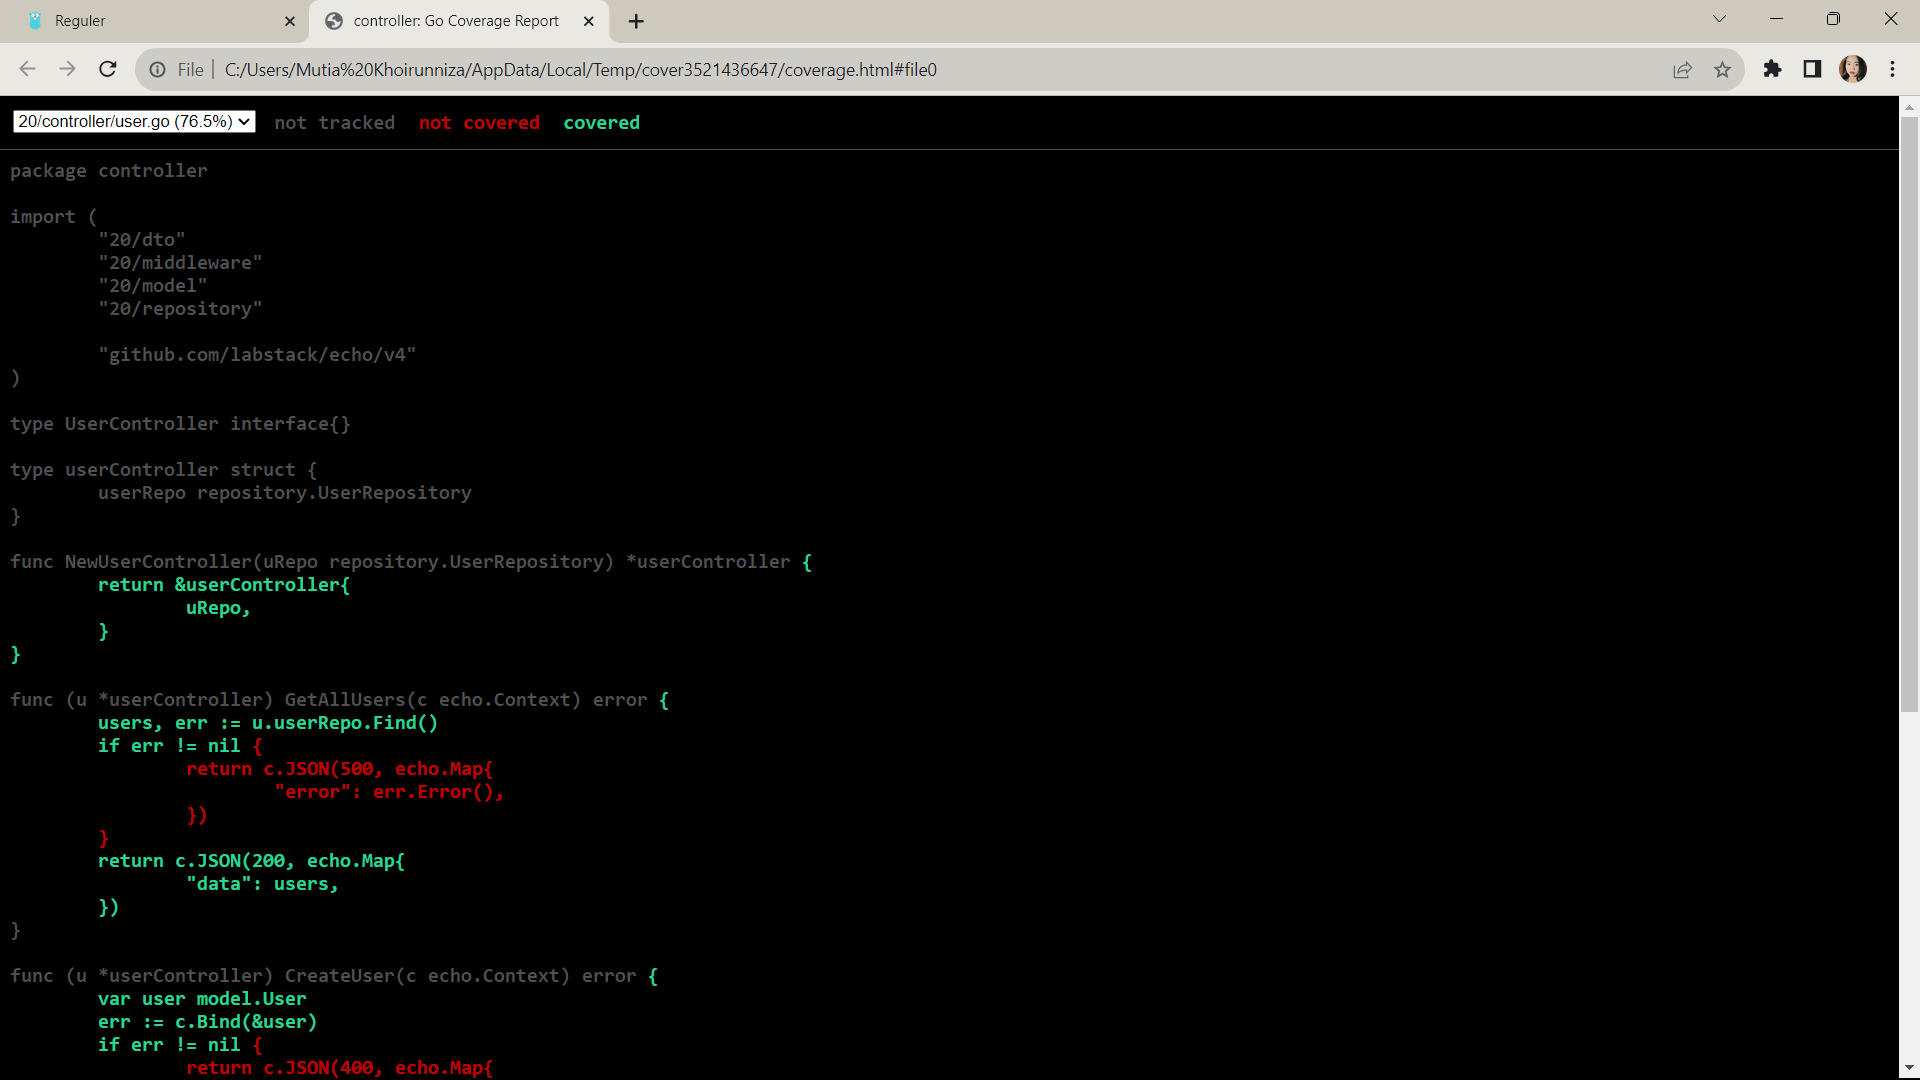
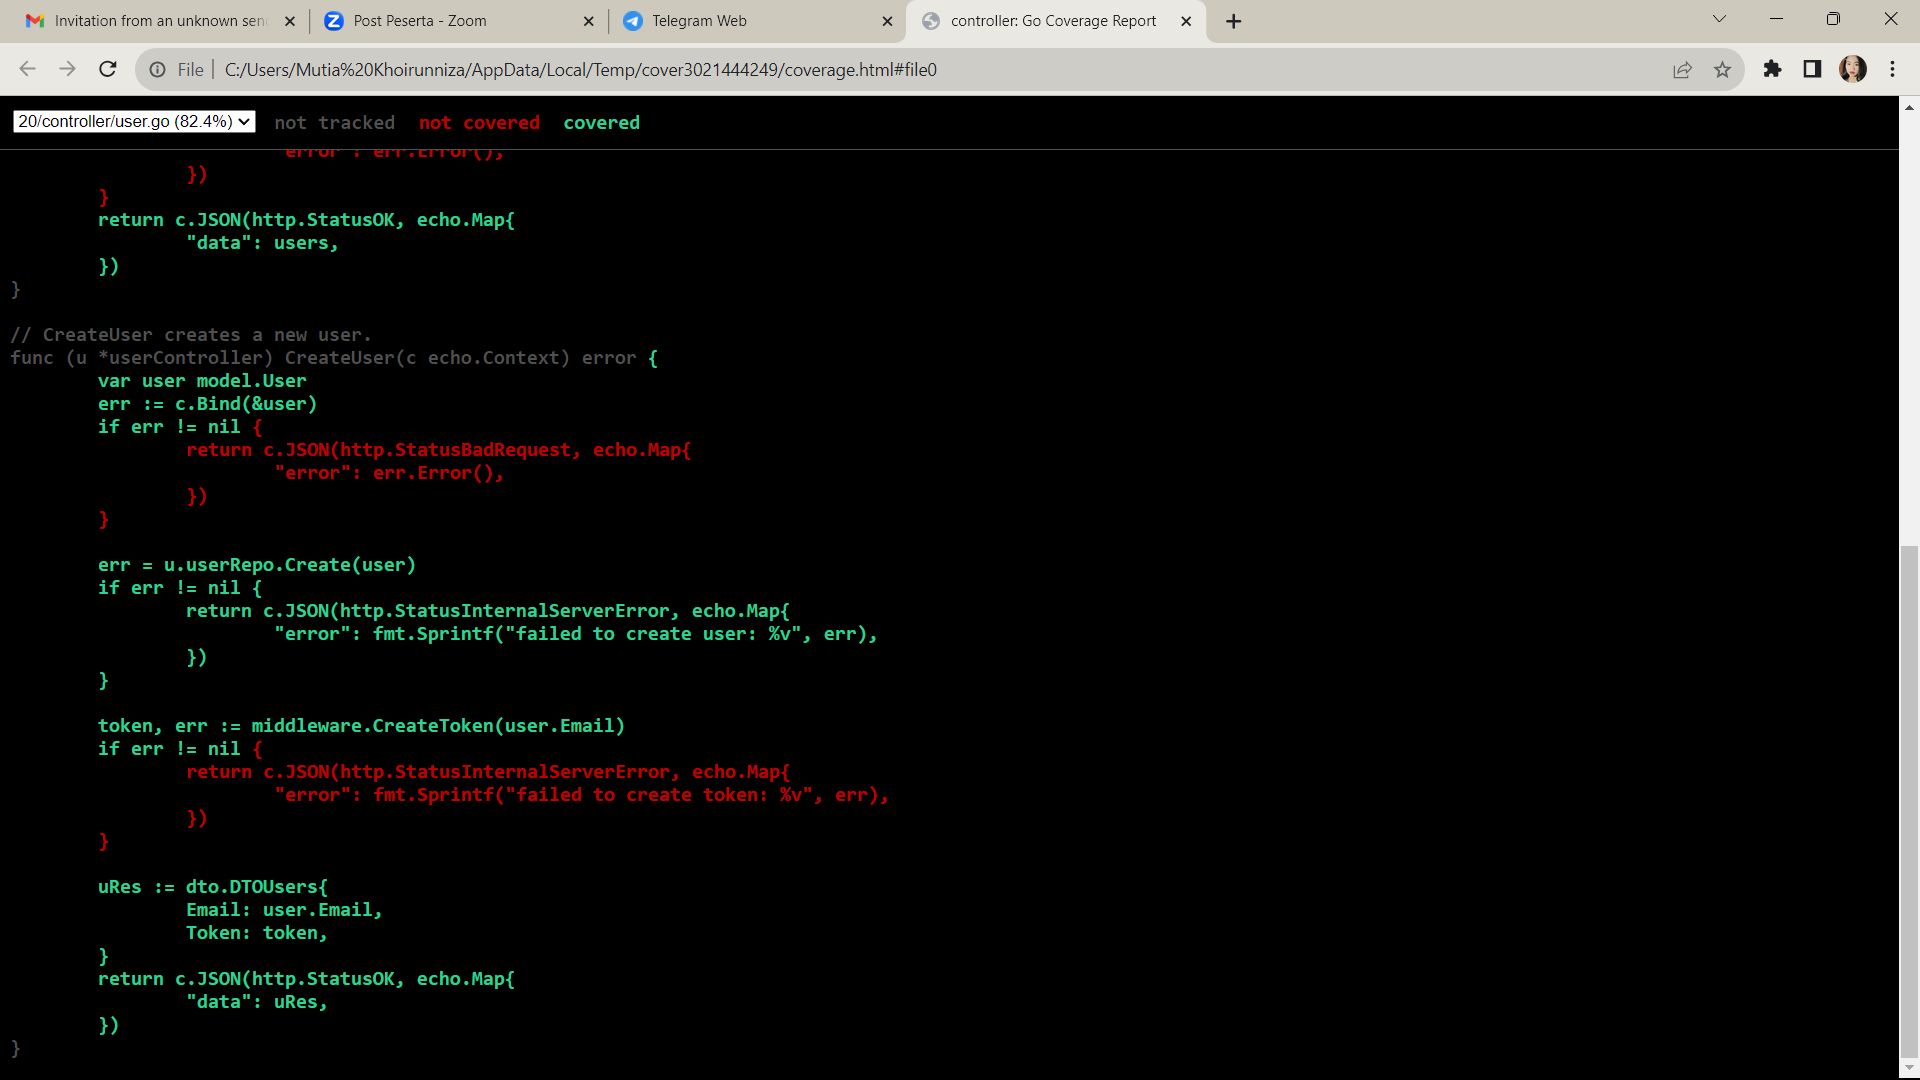
update

diff --git a/20_Clean-Architecture/praktikum/controller/user_test.go b/20_Clean-Architecture/praktikum/controller/user_test.go
@@ -1,155 +1,102 @@
 package controller_test
 
 import (
-	"20/controller"
-	"20/model"
-	"20/repository"
-	"net/http"
-	"net/http/httptest"
-	"strings"
-	"testing"
+    "20/controller"
+    "20/model"
+    "20/repository"
+    "errors"
+    "net/http"
+    "net/http/httptest"
+    "strings"
+    "testing"
 
-	"github.com/labstack/echo/v4"
-	"github.com/stretchr/testify/assert"
-	"github.com/stretchr/testify/mock"
-
+    "github.com/labstack/echo/v4"
+    "github.com/stretchr/testify/assert"
 )
 
-func TestGetAllUsers(t *testing.T) {
-	e := echo.New()
-	mockUserRepo := &repository.MockUserRepository{}
-	uController := controller.NewUserController(mockUserRepo)
+func TestGetAllUsersSuccess(t *testing.T) {
+    // Inisialisasi Echo
+    e := echo.New()
 
-	req := httptest.NewRequest(http.MethodGet, "/users", nil)
-	rec := httptest.NewRecorder()
-	c := e.NewContext(req, rec)
+    // Membuat mock repository dan controller
+    mockUserRepo := &repository.MockUserRepository{}
+    uController := controller.NewUserController(mockUserRepo)
 
-	mockUserRepo.On("Find").Return([]model.User{}, nil).Once()
+    // Membuat permintaan HTTP GET palsu
+    req := httptest.NewRequest(http.MethodGet, "/users", nil)
+    rec := httptest.NewRecorder()
+    c := e.NewContext(req, rec)
 
-	if assert.NoError(t, uController.GetAllUsers(c)) {
-		assert.Equal(t, http.StatusOK, rec.Code)
-	}
+    // Mengatur mock repository untuk mengembalikan beberapa data pengguna
+    users := []model.User{}
+    mockUserRepo.On("Find").Return(users, nil)
 
-	mockUserRepo.AssertExpectations(t)
+    // Menjalankan fungsi pengujian
+    err := uController.GetAllUsers(c)
+    assert.NoError(t, err)
+    assert.Equal(t, http.StatusOK, rec.Code)
+
+    mockUserRepo.AssertExpectations(t)
 }
 
-func TestCreateUser(t *testing.T) {
-	reqbody := `{
-		"email": "mutiakhoirunniza@gmail.com",
-		"password":"2002"}`
+func TestCreateUserValidJSON(t *testing.T) {
+    // JSON body yang valid
+    reqbody := `{ "email": "Mutia123@gmail.com", "password": "mutia1234fyu" }`
 
-	mockUserRepo := &repository.MockUserRepository{}
-	uController := controller.NewUserController(mockUserRepo)
-	mockUserRepo.On("Create", mock.AnythingOfType("model.User")).Return(nil)
+    // Membuat mock repository dan controller
+    mockUserRepo := &repository.MockUserRepository{}
+    uController := controller.NewUserController(mockUserRepo)
 
-	req := httptest.NewRequest(http.MethodPost, "/users", strings.NewReader(reqbody))
-	req.Header.Set(echo.HeaderContentType, echo.MIMEApplicationJSON)
-	rec := httptest.NewRecorder()
-	e := echo.New()
-	c := e.NewContext(req, rec)
+    // Membuat pengguna yang diharapkan untuk dibuat
+    expectedUser := model.User{
+        Email:    "Mutia123@gmail.com",
+        Password: "mutia1234fyu",
+    }
 
-	err := uController.CreateUser(c)
+    mockUserRepo.On("Create", expectedUser).Return(nil)
 
-	assert.NoError(t, err)
-	assert.Equal(t, http.StatusOK, rec.Code)
-	mockUserRepo.AssertExpectations(t)
+    // Membuat permintaan HTTP POST palsu dengan JSON body
+    req := httptest.NewRequest(http.MethodPost, "/users", strings.NewReader(reqbody))
+    req.Header.Set(echo.HeaderContentType, echo.MIMEApplicationJSON)
+    rec := httptest.NewRecorder()
+    e := echo.New()
+    c := e.NewContext(req, rec)
+
+    // Menjalankan fungsi pengujian
+    err := uController.CreateUser(c)
+    assert.NoError(t, err)
+    assert.Equal(t, http.StatusOK, rec.Code)
+    
+    mockUserRepo.AssertExpectations(t)
 }
 
-func TestCreateUserfailed(t *testing.T) {
+func TestCreateUserOtherErrors(t *testing.T) {
+    // JSON body yang valid
+    reqbody := `{ "email": "Mutia123@gmail.com"}`
 
-	mockUserRepo := &repository.MockUserRepository{}
-	uController := controller.NewUserController(mockUserRepo)
+    // Membuat mock repository dan controller
+    mockUserRepo := &repository.MockUserRepository{}
+    uController := controller.NewUserController(mockUserRepo)
 
-	mockUserRepo.On("Create", mock.AnythingOfType("model.User")).Return(nil)
+    // Membuat pengguna yang diharapkan untuk dibuat
+    expectedUser := model.User{
+        Email:    "Mutia123@gmail.com",
+    }
 
-	req := httptest.NewRequest(http.MethodPost, "/users", nil)
-	req.Header.Set(echo.HeaderContentType, echo.MIMEApplicationJSON)
-	rec := httptest.NewRecorder()
-	e := echo.New()
-	c := e.NewContext(req, rec)
+    // Mengatur ekspektasi panggilan Create pada mock repository untuk mengembalikan kesalahan
+    mockUserRepo.On("Create", expectedUser).Return(errors.New("some other error"))
 
-	err := uController.CreateUser(c)
+    // Membuat permintaan HTTP POST palsu dengan JSON body
+    req := httptest.NewRequest(http.MethodPost, "/users", strings.NewReader(reqbody))
+    req.Header.Set(echo.HeaderContentType, echo.MIMEApplicationJSON)
+    rec := httptest.NewRecorder()
+    e := echo.New()
+    c := e.NewContext(req, rec)
 
-	assert.NoError(t, err)
+    // Menjalankan fungsi pengujian
+    if assert.NoError(t, uController.CreateUser(c)){
+        assert.Equal(t, http.StatusInternalServerError, rec.Code)
+    }
 
-	mockUserRepo.AssertExpectations(t)
+    mockUserRepo.AssertExpectations(t)
 }
-
-
-// // someValidationError adalah tipe error kustom
-// type someValidationError struct {
-//     // Anda bisa menambahkan field tambahan jika diperlukan
-//     Message string
-// }
-
-// // Implementasi method Error() untuk tipe someValidationError.
-// func (e *someValidationError) Error() string {
-//     return e.Message
-// }
-
-// // someUnauthorizedError adalah tipe error kustom
-// type someUnauthorizedError struct {
-//     // Anda bisa menambahkan field tambahan jika diperlukan
-//     Message string
-// }
-
-// // Implementasi method Error() untuk tipe someUnauthorizedError.
-// func (e *someUnauthorizedError) Error() string {
-//     return e.Message
-// }
-
-
-
-
-
-// func TestCreateUser_WithValidationError(t *testing.T) {
-// 	reqbody := `{
-//         "email": "invalid-email",
-//         "password":"2002"
-//     }`
-
-// 	mockUserRepo := &repository.MockUserRepository{}
-// 	uController := controller.NewUserController(mockUserRepo)
-
-// 	mockUserRepo.On("Create", mock.AnythingOfType("model.User")).Return(e.Message)
-
-// 	req := httptest.NewRequest(http.MethodPost, "/users", strings.NewReader(reqbody))
-// 	req.Header.Set(echo.HeaderContentType, echo.MIMEApplicationJSON)
-// 	rec := httptest.NewRecorder()
-// 	e := echo.New()
-// 	c := e.NewContext(req, rec)
-
-// 	err := uController.CreateUser(c)
-
-// 	assert.Error(t, err)
-// 	assert.Equal(t, http.StatusBadRequest, rec.Code)
-
-// 	mockUserRepo.AssertExpectations(t)
-// }
-
-// func TestCreateUser_WithUnauthorizedError(t *testing.T) {
-// 	reqbody := `{
-//         "email": "mutiakhoirunniza@gmail.com",
-//         "password":"2002"
-//     }`
-
-// 	mockUserRepo := &repository.MockUserRepository{}
-// 	uController := controller.NewUserController(mockUserRepo)
-
-// 	// Set up the mockUserRepo to return an unauthorized error.
-
-// 	mockUserRepo.On("Create", mock.AnythingOfType("model.User")).Return(someUnauthorizedError)
-
-// 	req := httptest.NewRequest(http.MethodPost, "/users", strings.NewReader(reqbody))
-// 	req.Header.Set(echo.HeaderContentType, echo.MIMEApplicationJSON)
-// 	rec := httptest.NewRecorder()
-// 	e := echo.New()
-// 	c := e.NewContext(req, rec)
-
-// 	err := uController.CreateUser(c)
-
-// 	assert.Error(t, err)
-// 	assert.Equal(t, http.StatusUnauthorized, rec.Code)
-
-// 	mockUserRepo.AssertExpectations(t)
-// }

diff --git a/20_Clean-Architecture/praktikum/controller/user.go b/20_Clean-Architecture/praktikum/controller/user.go
@@ -5,52 +5,63 @@ import (
 	"20/middleware"
 	"20/model"
 	"20/repository"
+	"fmt"
+	"net/http"
 
 	"github.com/labstack/echo/v4"
 )
 
-type UserController interface{}
+// UserController defines the user controller interface.
+type UserController interface {
+	GetAllUsers(c echo.Context) error
+	CreateUser(c echo.Context) error
+}
 
 type userController struct {
 	userRepo repository.UserRepository
 }
 
-func NewUserController(uRepo repository.UserRepository) *userController {
+// NewUserController creates a new UserController instance.
+func NewUserController(uRepo repository.UserRepository) UserController {
 	return &userController{
-		uRepo,
+		userRepo: uRepo,
 	}
 }
 
+// GetAllUsers retrieves all users.
 func (u *userController) GetAllUsers(c echo.Context) error {
 	users, err := u.userRepo.Find()
 	if err != nil {
-		return c.JSON(500, echo.Map{
+		return c.JSON(http.StatusInternalServerError, echo.Map{
 			"error": err.Error(),
 		})
 	}
-	return c.JSON(200, echo.Map{
+	return c.JSON(http.StatusOK, echo.Map{
 		"data": users,
 	})
 }
 
+// CreateUser creates a new user.
 func (u *userController) CreateUser(c echo.Context) error {
 	var user model.User
 	err := c.Bind(&user)
 	if err != nil {
-		return c.JSON(400, echo.Map{
+		return c.JSON(http.StatusBadRequest, echo.Map{
 			"error": err.Error(),
 		})
 	}
+
 	err = u.userRepo.Create(user)
 	if err != nil {
-		return c.JSON(400, echo.Map{
-			"error": err.Error(),
+		return c.JSON(http.StatusInternalServerError, echo.Map{
+			"error": fmt.Sprintf("failed to create user: %v", err),
 		})
 	}
+
 	token, err := middleware.CreateToken(user.Email)
 	if err != nil {
-		return c.JSON(401, echo.Map{
-			"error": err.Error(),
+		return c.JSON(http.StatusInternalServerError, echo.Map{
+			"error": fmt.Sprintf("failed to create token: %v", err),
 		})
 	}
 
@@ -58,7 +69,7 @@ func (u *userController) CreateUser(c echo.Context) error {
 		Email: user.Email,
 		Token: token,
 	}
-	return c.JSON(200, echo.Map{
+	return c.JSON(http.StatusOK, echo.Map{
 		"data": uRes,
 	})
 }

diff --git a/20_Clean-Architecture/praktikum/repository/mock.go b/20_Clean-Architecture/praktikum/repository/mock.go
@@ -14,6 +14,7 @@ func NewMockUserRepo() *MockUserRepository {
 	return &MockUserRepository{}
 }
 
+
 func (m *MockUserRepository) Create(user model.User) error {
 	ret := m.Called(user)
 	return ret.Error(0)
